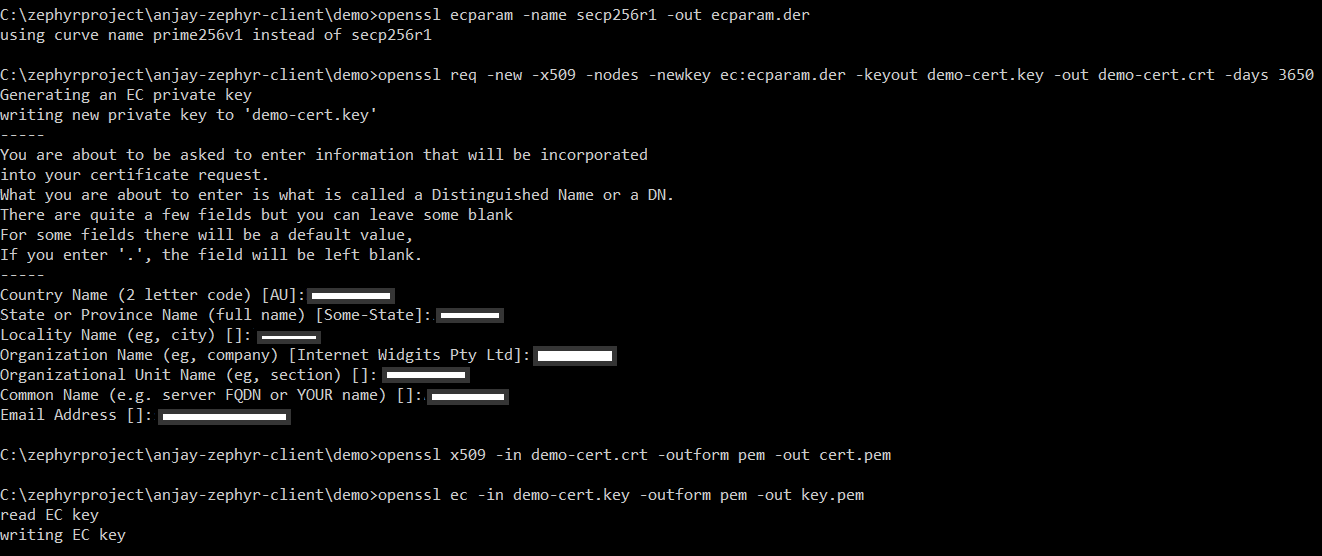
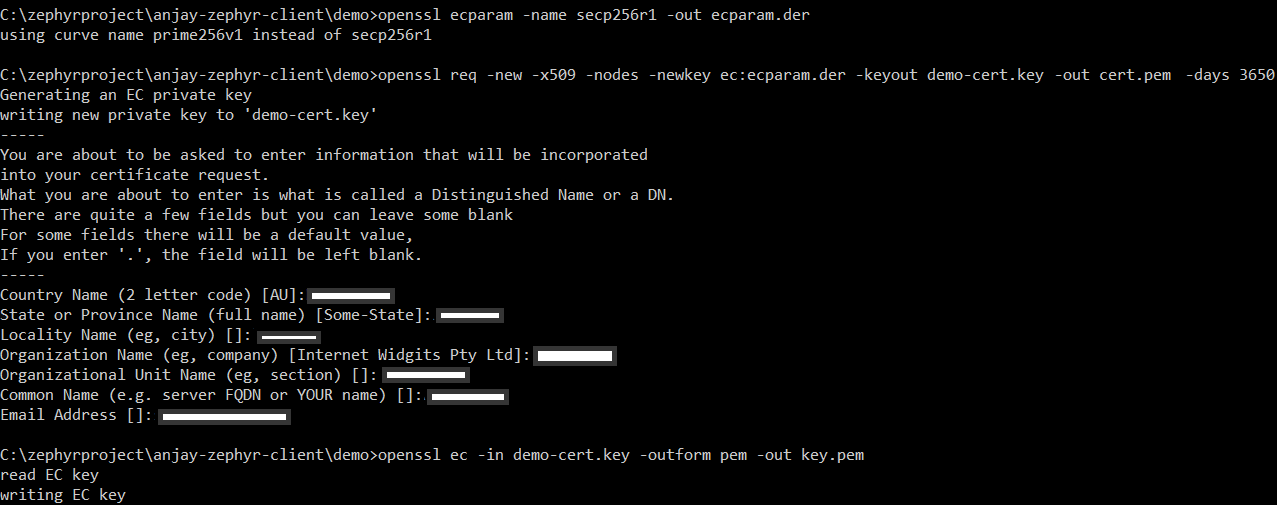
changes connected to openssl commands and nrf board connections

Changed region(s): [[0.0, 0.2673, 0.6719, 1.0], [0.0, 0.1188, 1.0, 0.2376], [0.0, 0.0, 0.6413, 0.0891]]

diff --git a/docs/LwM2M_Client/Nordic/Runtime_certificate.md b/docs/LwM2M_Client/Nordic/Runtime_certificate.md
@@ -16,7 +16,8 @@ You can read more about secure communication on [Anjay's documentation](https://
 * An active [Coiote IoT DM](https://eu.iot.avsystem.cloud/) user account.
 
 !!! Note
-    In this tutorial we will use the nRF9160DK board as an example.
+
+        The runtime certificate and private key configuration do not work with other boards.
 
 ## Build and flash the device
 0. Connect the nRF9160DK board to a USB port of your machine.
@@ -37,17 +38,6 @@ You can read more about secure communication on [Anjay's documentation](https://
     west build -b nrf9160dk_nrf9160_ns@0.14.0 -p -- -DCONF_FILE=prj_extflash.conf -DOVERLAY_CONFIG="overlay_nrf_mbedtls.conf"
     ```
 
-    !!! Note
-
-        The runtime certificate and private key configuration do not work with Thingy:91. Other boards should work with this command.
-
-        ```
-        west build -b <BOARD> -p -- -DCONFIG_ANJAY_ZEPHYR_RUNTIME_CERT_CONFIG=y
-        ```
-
-        where <BOARD\> should be replaced by the selected board from `boards/` directory.
-
-
 0. Flash the board with `west flash` command.
 
 ## Generate certificate
@@ -55,8 +45,7 @@ The certificate and private key based on the SECP256R1 curve can be provided thr
 
 ```
 openssl ecparam -name secp256r1 -out ecparam.der
-openssl req -new -x509 -nodes -newkey ec:ecparam.der -keyout demo-cert.key -out demo-cert.crt -days 3650
-openssl x509 -in demo-cert.crt -outform pem -out cert.pem
+openssl req -new -x509 -nodes -newkey ec:ecparam.der -keyout demo-cert.key -out cert.pem -days 3650
 openssl ec -in demo-cert.key -outform pem -out key.pem
 ```
 
@@ -75,7 +64,8 @@ You will see created `cert.pem` and `key.pem` files in the `Anjay-zephyr-client/
 
         Before setting configurations in Anjay you need to stop running Anjay by `anjay stop` command.
 
-    Run these commands and paste the content of the `.pem` files.
+    Run these commands and paste generated in the previous step files.
+
     ```
     anjay config set public_cert
     anjay config set private_key

diff --git a/docs/LwM2M_Client/STMicroelectronics/Runtime_certificate.md b/docs/LwM2M_Client/STMicroelectronics/Runtime_certificate.md
@@ -32,8 +32,7 @@ The certificate and private key based on the SECP256R1 curve can be provided thr
 
 ```
 openssl ecparam -name secp256r1 -out ecparam.der
-openssl req -new -x509 -nodes -newkey ec:ecparam.der -keyout demo-cert.key -out demo-cert.crt -days 3650
-openssl x509 -in demo-cert.crt -outform pem -out cert.pem
+openssl req -new -x509 -nodes -newkey ec:ecparam.der -keyout demo-cert.key -out cert.pem -days 3650
 openssl ec -in demo-cert.key -outform pem -out key.pem
 ```
 
